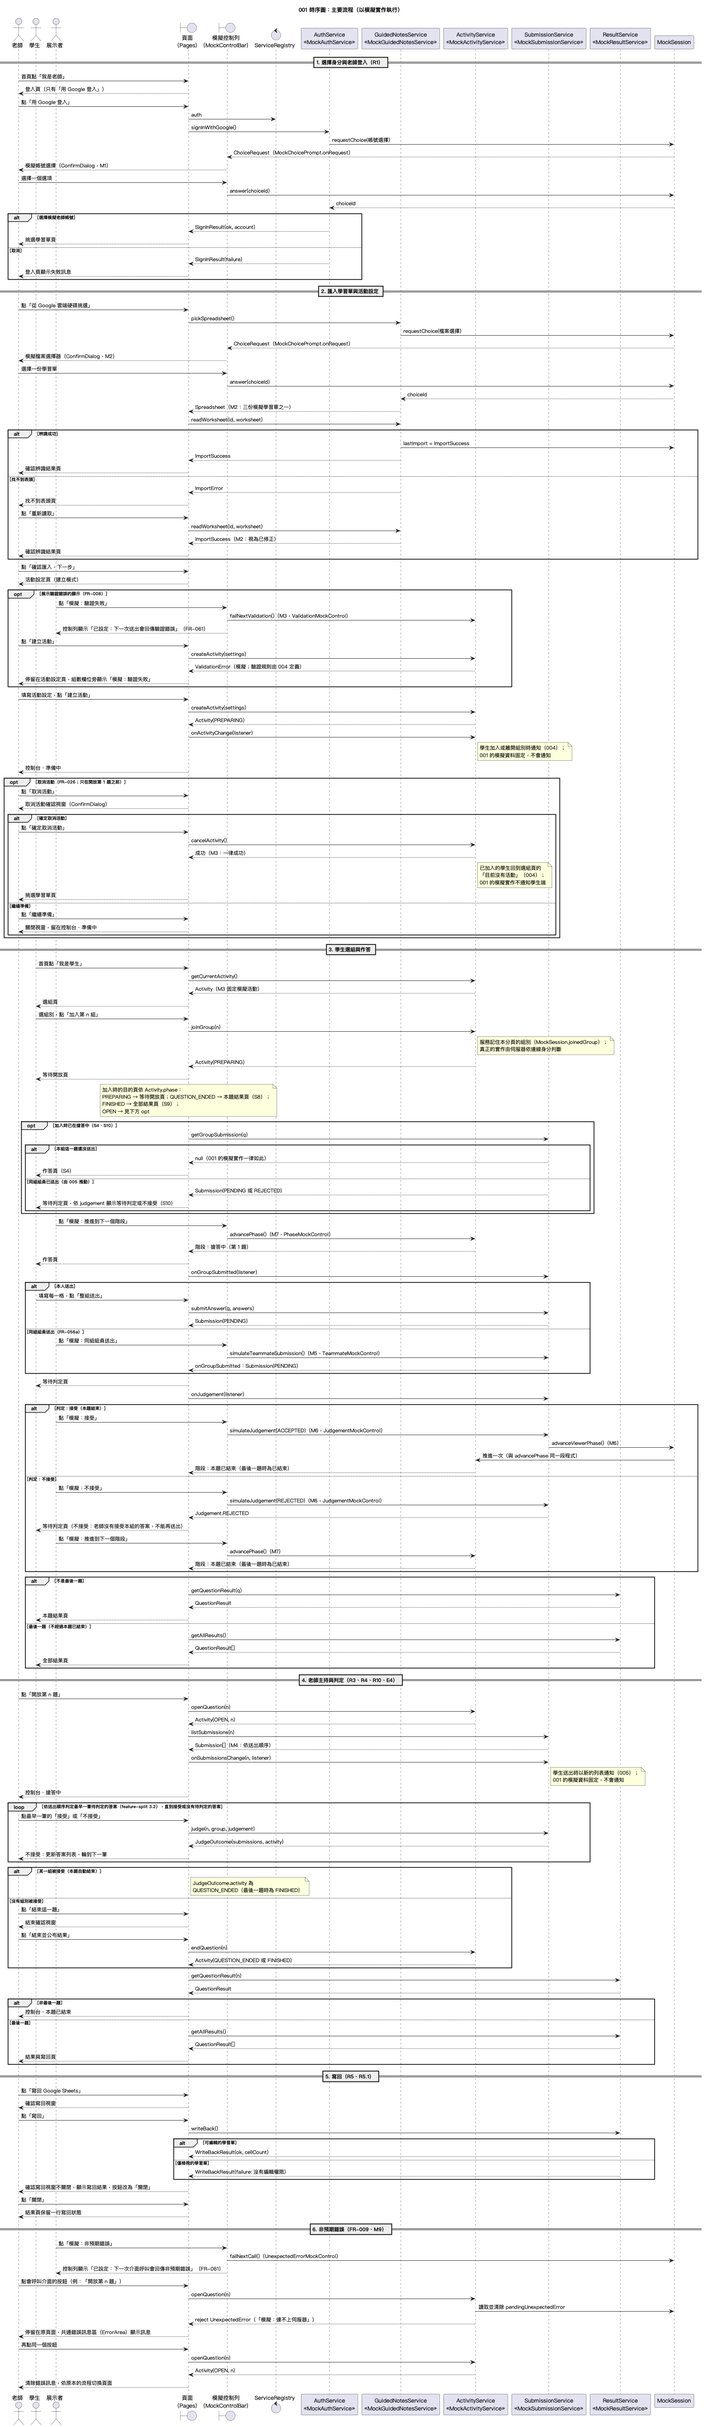
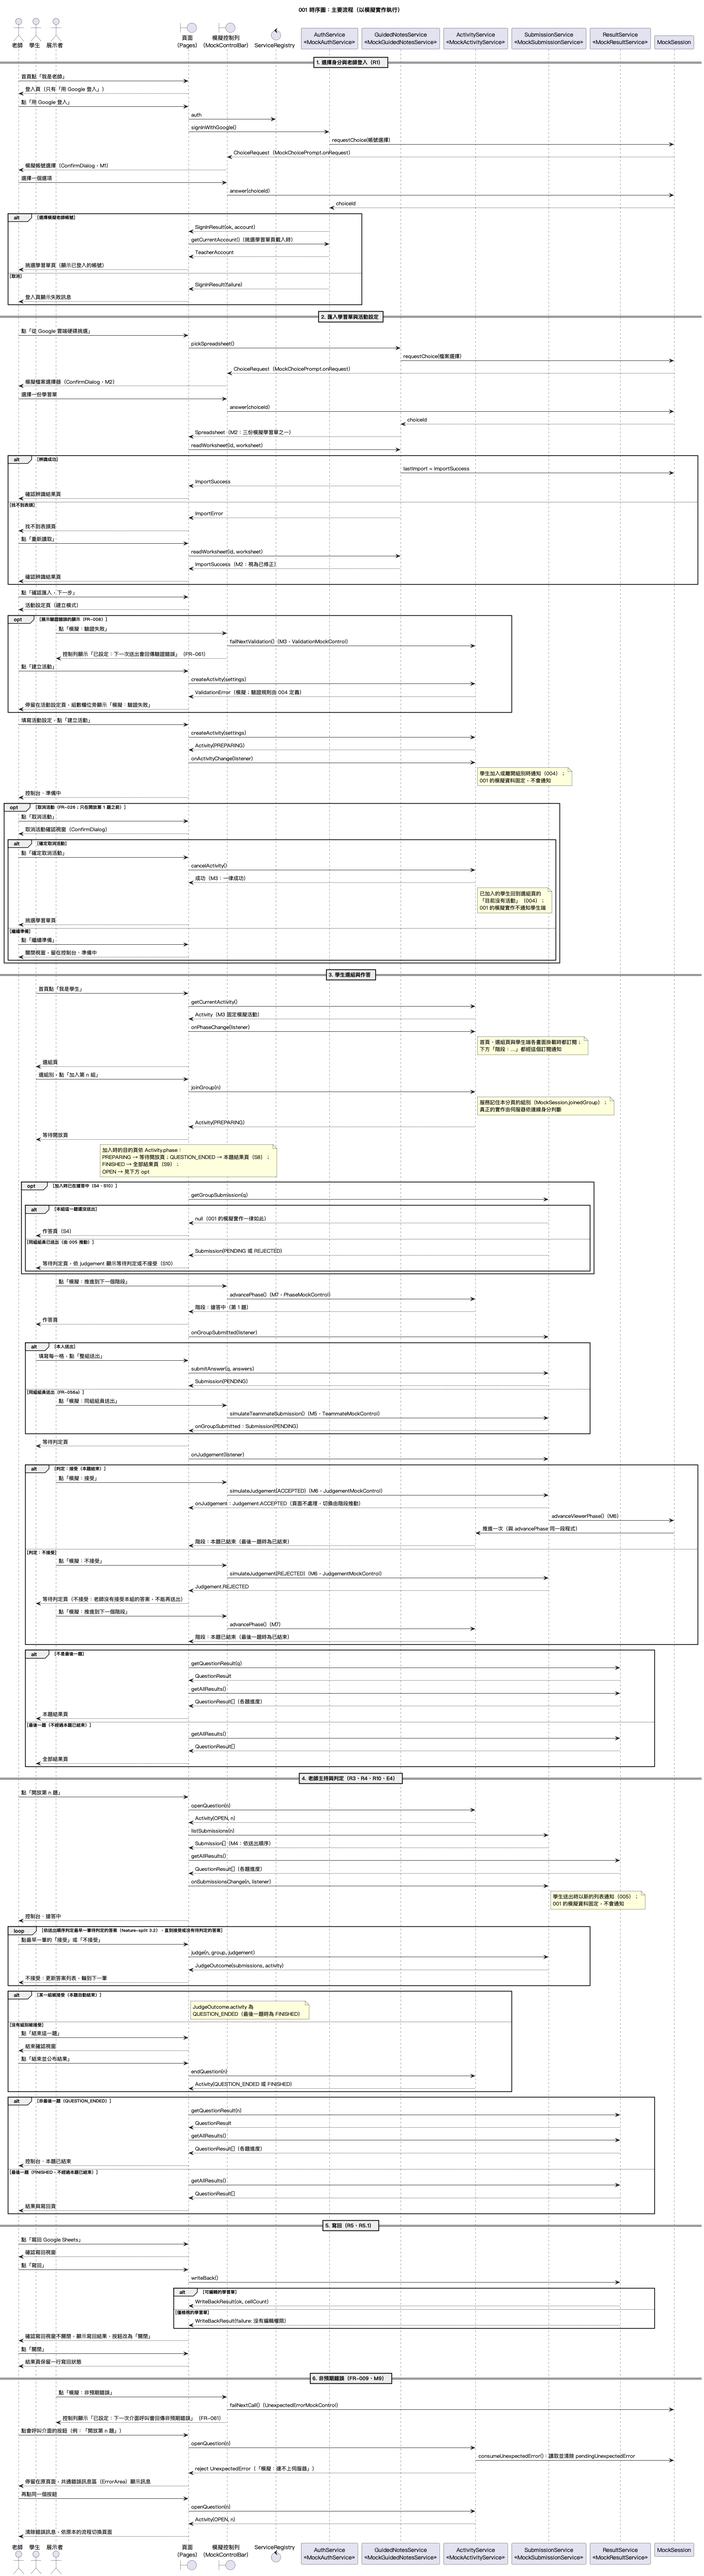
spec(001): record diagram verification results
Step 7 compared the four 001 diagrams with frontend/src and shared/src.
15 differences were outdated diagrams: pages and calls the code has but
the diagrams missed, such as JoinPage's getGroupSubmission, the
getAllResults calls for question progress, and the mock members
consumeUnexpectedError, viewerSequence and teammateAnswers. The diagrams
now follow the code, and data-model.md lists the same mock members so it
stays consistent with the class diagram. 8 differences are acceptable
helpers or notation choices, with reasons in diagram-verification.md.

F4 (S11) is a design gap, not a diagram error: no 001 page reacts when
the teacher cancels the activity, so 004 could not deliver S11 by only
binding a real service. It is left open for a spec change.

The PNGs were rendered with PLANTUML_LIMIT_SIZE=16384. The previous
component PNG was exactly 4096 px wide and cut off on the right.

Refs: SC-001, SC-002, 原則 I

diff --git a/specs/001-ui-prototype/diagram-verification.md b/specs/001-ui-prototype/diagram-verification.md
@@ -1,0 +1,81 @@
+# 001 圖表一致性驗證
+
+- 日期：2026-11-24
+- 分支：`001-ui-prototype-impl`
+- 範圍：`frontend/src`、`shared/src` 與 `diagrams/001-component.puml`、`001-class.puml`、`001-sequence.puml`、`001-screen-flow.puml`
+- 分類：(a) 圖過時，改圖；(b) 程式偏離設計，改程式；(c) 可接受，不需改
+- 每項的處理方式由使用者決定（F4 改為 (b)，其餘依建議分類）
+
+## 結果摘要
+
+| 分類 | 項數 | 狀態 |
+| --- | --- | --- |
+| (a) 圖過時 | 15（D1–D6、C1–C3、Q1–Q6） | 已改圖並重新產生 PNG |
+| (b) 程式偏離設計 | 1（F4） | **未處理**：需先改 spec，見「待處理」 |
+| (c) 可接受 | 8（D7、D8、C4–C6、F1–F3） | 不需改，理由見各表 |
+
+完全一致、未列入差異的部分：類別圖的實體欄位；`AuthService`、`GuidedNotesService`、`ActivityService`、`SubmissionService`、`ResultService` 與 6 個 mock 控制介面的方法名稱、參數、回傳型別；`ServiceRegistry` 的欄位與 `isMockMode()`；各頁面對服務介面的依賴（D4 除外）；時序圖第 2、5、6 段的呼叫順序。
+
+## 組件圖
+
+| # | 位置 | 圖上（修改前） | 程式 | 分類 | 處理 |
+| --- | --- | --- | --- | --- | --- |
+| D1 | AppRouter 的箭頭 | 只連到 HomePage、JoinPage、TeacherLoginPage | `renderPage()` 渲染全部 10 個頁面（`app/AppRouter.tsx`） | (a) | 改為 `Router --> 老師端頁面`、`Router --> 學生端頁面`，標註 `renderPage()` |
+| D2 | AppRouter → MockModeBadge | 沒有 | `AppRouter` 渲染 `MockModeBadge` | (a) | 新增箭頭 |
+| D3 | AppHeader | 沒有箭頭 | 10 個頁面都使用 | (a) | 兩個頁面群組各加一條箭頭（比照 ErrorArea） |
+| D4 | JoinPage 的依賴 | 只依賴 ActivityService | `JoinPage` 呼叫 `getGroupSubmission()` | (a) | 新增 `PJoin ..> SubmissionService` |
+| D5 | TeacherResultsPage 的元件 | 沒有 QuestionProgress、SubmissionTable | 兩者都使用 | (a) | 新增兩條箭頭 |
+| D6 | StudentResultsPage 的元件 | 沒有共用元件 | 使用 SubmissionTable | (a) | 新增箭頭 |
+| D7 | 輔助檔 | 未畫 | `errorMessage.ts`、`phaseLabels.ts`、`questionLabels.ts`、`submissionLabels.ts`、`importNavigation.ts` | (c) | 純函式或文字對照；`importNavigation` 只是包裝 `pickSpreadsheet`、`readWorksheet`，依賴的仍是 `GuidedNotesService` 介面 |
+| D8 | 連線與啟動 | 未畫 | `ServiceRegistryContext.tsx`、`main.tsx`、`createServiceRegistry.ts` | (c) | React 傳遞 Registry 的方式；`createServiceRegistry` 已寫在圖的註記 |
+
+## 類別圖
+
+| # | 位置 | 圖上（修改前） | 程式 | 分類 | 處理 |
+| --- | --- | --- | --- | --- | --- |
+| C1 | MockSession | 沒有此方法 | 公開方法 `consumeUnexpectedError(): boolean`，所有 mock 服務呼叫 | (a) | 新增方法，並在 MockSession 註記說明；時序圖第 6 段同步標出方法名稱 |
+| C2 | MockFixtures | 6 個欄位 | 另有 `teammateAnswers`（M5）、`viewerSequence: ViewerStep[]`（M7） | (a) | 新增兩個欄位與 `ViewerStep` 類別 |
+| C3 | `MockSession.pendingValidationFailure` | 沒有型別 | `{ activity: boolean; submission: boolean }` | (a) | 補上型別 |
+| C4 | 屬性與關聯 | `Question.subQuestions`、`Activity` 的 spreadsheet／questions／groups、`QuestionResult.submissions` 畫成關聯線 | 欄位 | (c) | UML 中兩種畫法等價，多重性一致 |
+| C5 | `shared/src/guards.ts` | 未畫 | 4 個型別守衛 | (c) | 分辨聯集回傳值的輔助函式 |
+| C6 | Fixture 常數、mock 的 private 方法 | 未畫 | `ACCOUNT_CHOICE`、`SPREADSHEET_ID`、`MOCK_UNEXPECTED_ERROR`、`MOCK_VALIDATION_MESSAGE`、`FixtureSubmission`；`stepViewerPhase`、`seed` 等 | (c) | mock 內部實作細節，類別圖只列公開成員 |
+
+## 時序圖
+
+| # | 位置 | 圖上（修改前） | 程式 | 分類 | 處理 |
+| --- | --- | --- | --- | --- | --- |
+| Q1 | 第 1 段，登入成功 | 直接到挑選學習單頁 | `PickPage` 載入時呼叫 `auth.getCurrentAccount()` | (a) | 新增呼叫 |
+| Q2 | 第 3 段，階段訂閱 | 沒有畫 `onPhaseChange` 的訂閱 | Home、Join 與學生端各畫面掛載時訂閱 | (a) | 在選組頁載入後新增 `onPhaseChange(listener)` 與註記 |
+| Q3 | 第 3 段，判定「接受」 | 直接 `advanceViewerPhase()` | `simulateJudgement` 先經 `onJudgement` 通知 ACCEPTED（頁面不處理），再推進階段 | (a) | 新增通知訊息 |
+| Q4 | 第 3 段，本題結果頁 | 只有 `getQuestionResult(q)` | 另呼叫 `getAllResults()`（各題進度） | (a) | 新增呼叫 |
+| Q5 | 第 4 段，控制台・搶答中 | 沒有 `getAllResults()` | 呼叫 `getAllResults()`（各題進度） | (a) | 新增呼叫 |
+| Q6 | 第 4 段，結束之後 | 兩種情況都先 `getQuestionResult(n)` | 非最後一題：本題已結束頁呼叫 `getQuestionResult`、`getAllResults`；最後一題：直接到結果頁，只呼叫 `getAllResults` | (a) | 依兩種情況分開畫 |
+
+## 畫面流程圖
+
+除 S10、S11 外，每條箭頭在 `frontend/tests/e2e/us5-screen-flow.spec.ts` 都有一個測試；瀏覽器返回（`backTarget`）與 T3、T6、T9、T11、H3、H4 一致。
+
+| # | 位置 | 圖上 | 程式 | 分類 | 處理 |
+| --- | --- | --- | --- | --- | --- |
+| F1 | T5「切換工作表（找不到表頭）」、T8「重新讀取（仍找不到表頭）」 | 列為觸發 | 有程式路徑（`readToPage` → `isImportError`），但 M2 的模擬資料無法產生，e2e 只測「重新挑選」 | (c) | 程式路徑存在，只是 mock 觸發不了 |
+| F2 | S_Open → S-Results，從「S-Submitted（不接受）」 | 複合狀態的箭頭涵蓋此子狀態 | 與「等待判定」共用 `SubmittedView` → `navigateWhenQuestionEnds`；e2e 沒有這個子狀態的測試 | (c) | 程式路徑存在 |
+| F3 | S10 | 001 的模擬實作不觸發 | 有程式路徑（`JoinPage` 的 `getGroupSubmission`），由 component test T079 涵蓋 | (c) | — |
+| F4 | S11：S-Join、S-Wait → S-Join（沒有活動） | 由 004 推動，001 不觸發 | 001 頁面沒有這條路徑：`onPhaseChange` 的 listener 只收 `Activity`、不能收 `null`；即使收到 `phase: NO_ACTIVITY`，`JoinPage` 仍顯示組別，`WaitView` 只處理 `OPEN`。組件圖註記要求後續子功能只改綁定、不改 001 頁面，004 將無法只改綁定讓 S11 運作 | **(b)** | **待處理**，見下節 |
+
+## 待處理
+
+### F4（b）：001 頁面處理「活動被取消」
+
+這項修改不在 `tasks.md` 中，而且 spec 目前把 S11 列為 001 的除外項（SC-002），因此依 CLAUDE.md 第 3 節視為行為變更，必須依序：
+
+1. 修改 `spec.md`：決定 S11 在 001 頁面的行為，以及服務如何通知「沒有活動」（例如 `onPhaseChange` 通知 `phase: NO_ACTIVITY` 的 `Activity`，或改 listener 型別為 `Activity | null`），並將 S11 移出 SC-002 除外項；獨立 commit（類型 `spec`）。
+2. 重跑 `/speckit-plan`（同步 `contracts/service-interfaces.md`、`data-model.md`、類別圖與畫面流程圖）與 `/speckit-tasks`。
+3. 依新任務修改 `JoinPage`、`StudentPlayPage`（WaitView）與測試，再重做本驗證的 F4。
+
+### 與 data-model.md 同步
+
+C1、C2 在類別圖新增的 `MockSession.consumeUnexpectedError()`、`MockFixtures.viewerSequence`、`teammateAnswers`，已依使用者決定同步加入 `data-model.md` 第 3 節（`MockFixtures` 表、`MockSession` 方法表）；C3 的 `pendingValidationFailure` 在 data-model 原本就寫明「活動與送出各一個旗標」，不需改。
+
+## 圖片產生
+
+以 `java -DPLANTUML_LIMIT_SIZE=16384 -jar plantuml.jar -charset UTF-8` 重新產生 `001-component.png`、`001-class.png`、`001-sequence.png`。PlantUML 預設上限為 4096 px，修改前的 `001-component.png` 寬度剛好是 4096 px，右側已被裁切；這次調高上限後輸出完整（4771 × 1281）。`001-screen-flow` 沒有修改，未重新產生。

diff --git a/specs/001-ui-prototype/data-model.md b/specs/001-ui-prototype/data-model.md
@@ -89,7 +89,8 @@
 | `activity` | 首頁與學生頁面看到的固定模擬活動：4 題、6 組 | M3 |
 | `groupMembers` | 各組已加入人數，至少一組為 0 人 | M3 |
 | `submissionsByQuestion` | 每題開放時的模擬送出列表：除第 3 題外每題 2 組以上；第 3 題沒有送出 | M4；內容沿用 `docs/design/dark/T-Live.html` |
-| 同組組員的模擬答案 | 「模擬：同組組員送出」時使用的一組固定答案 | M5 |
+| `teammateAnswers` | 同組組員的模擬答案：「模擬：同組組員送出」時使用的固定答案，依題號 | M5 |
+| `viewerSequence` | 首頁與學生頁面看到的階段序列（`ViewerStep[]`，每步為 `phase` 與 `currentQuestion?`）：`NO_ACTIVITY → PREPARING → OPEN(1) → QUESTION_ENDED(1) → … → OPEN(最後一題) → FINISHED`，最後一題不經過 `QUESTION_ENDED`；`MockSession.viewerPhaseIndex` 是它的位置 | M7 |
 
 模擬資料只是展示用的資料，不是預設值（spec Assumptions）。
 
@@ -112,6 +113,7 @@
 | `requestChoice(request): Promise<string \| null>` | `MockAuthService`（M1）、`MockGuidedNotesService`（M2）發出選擇請求；經 `onRequest` 通知模擬控制列顯示，在 `answer` 被呼叫時以選項 id 或 `null`（關閉）完成 |
 | `onRequest(listener)`、`answer(choiceId)` | `MockChoicePrompt` 的實作，見 [contracts/mock-controls.md](contracts/mock-controls.md) |
 | `failNextCall()` | `UnexpectedErrorMockControl` 的實作 |
+| `consumeUnexpectedError(): boolean` | 讀取並清除 `pendingUnexpectedError`；各 `Mock*Service` 在介面方法開頭呼叫，回傳 `true` 時以 `UnexpectedError` reject（M9） |
 
 ### 老師端與學生端的兩條模擬狀態
 
